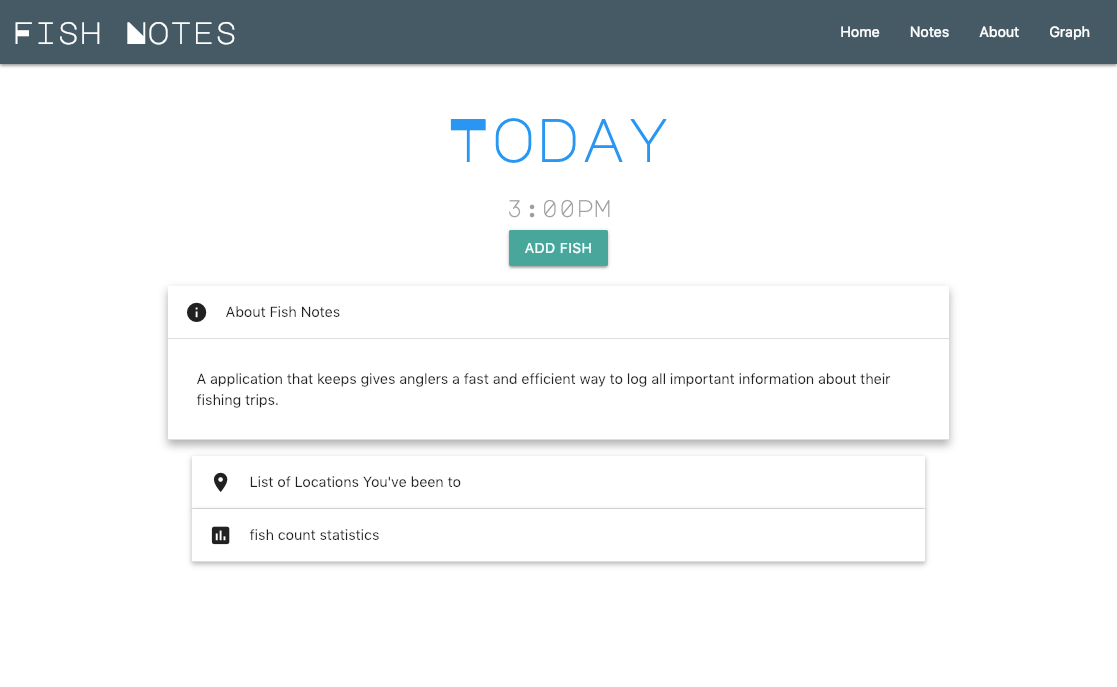
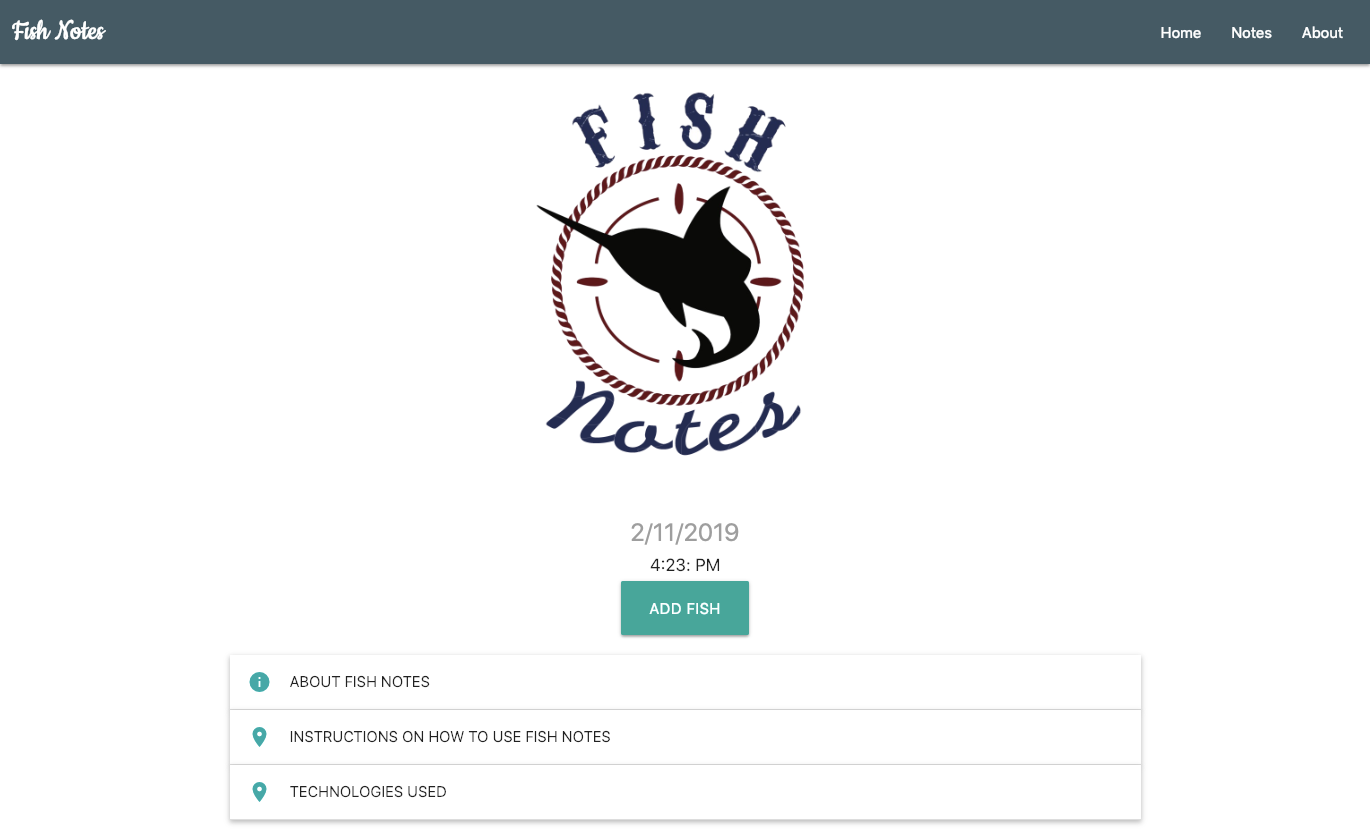
changed in progress website to completed website

diff --git a/index.html b/index.html
@@ -404,6 +404,7 @@
                                 </div>
                                 <div class="blog-content">
                                     <h2 class="blog-title">
+                                        <p>Website: </p>
                                         <a href="http://www.mypocketcards.com/">My Pocket Cards</a>
                                     </h2>
                                     <p>Pocket Cards is an application that allows users to edit, create and use flashcards. The application
@@ -439,6 +440,7 @@
                                 </div>
                                 <div class="blog-content">
                                     <h2 class="blog-title">
+                                        <p>Website: </p>
                                         <a href="http://www.tiffanyykim.com/beer-roulette">Beer Roulette</a>
                                     </h2>
                                     <p>Beer Roulette is an application built during a Hackathon that generates a random beer depending on what the user likes.
@@ -473,7 +475,8 @@
                                 </div>
                                 <div class="blog-content">
                                     <h2 class="blog-title">
-                                        <a href="http://www.tiffanyykim.com/fish-notes">Fish Notes (in progress)</a>
+                                        <p>Website: </p>
+                                        <a href="http://fish-notes.tiffanyykim.com/">Fish Notes</a>
                                     </h2>
                                     <p>A application that gives anglers a fast and efficient way to log all important information about their fishing trips.
                                         The application displays statistics of the users fishing information.
